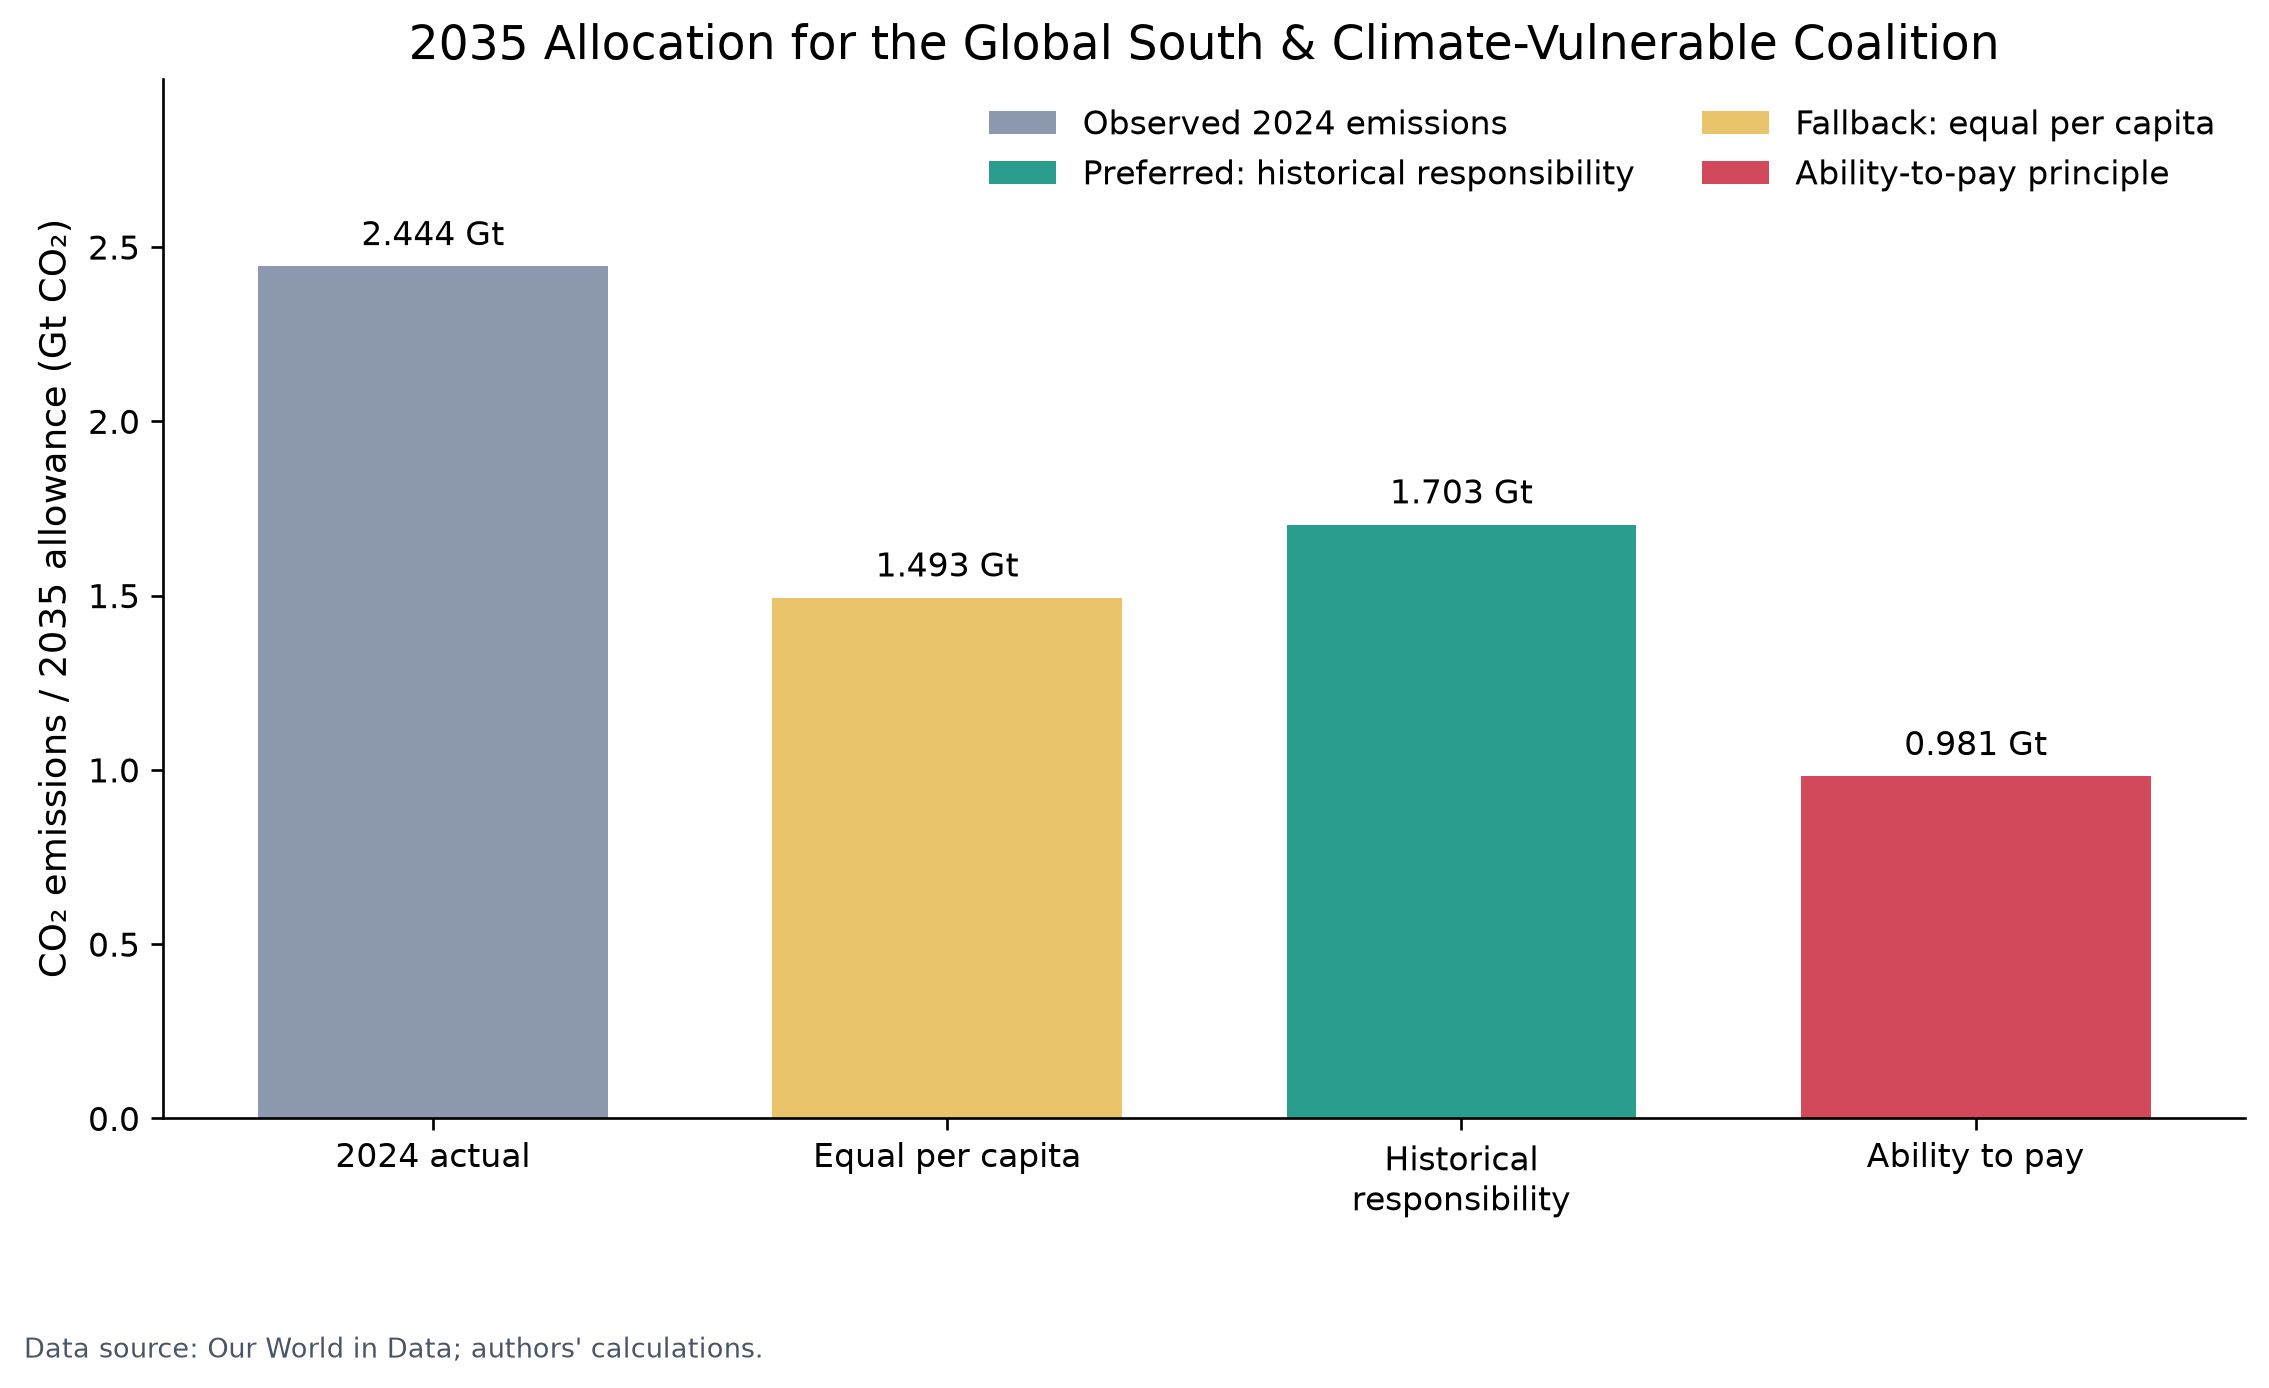
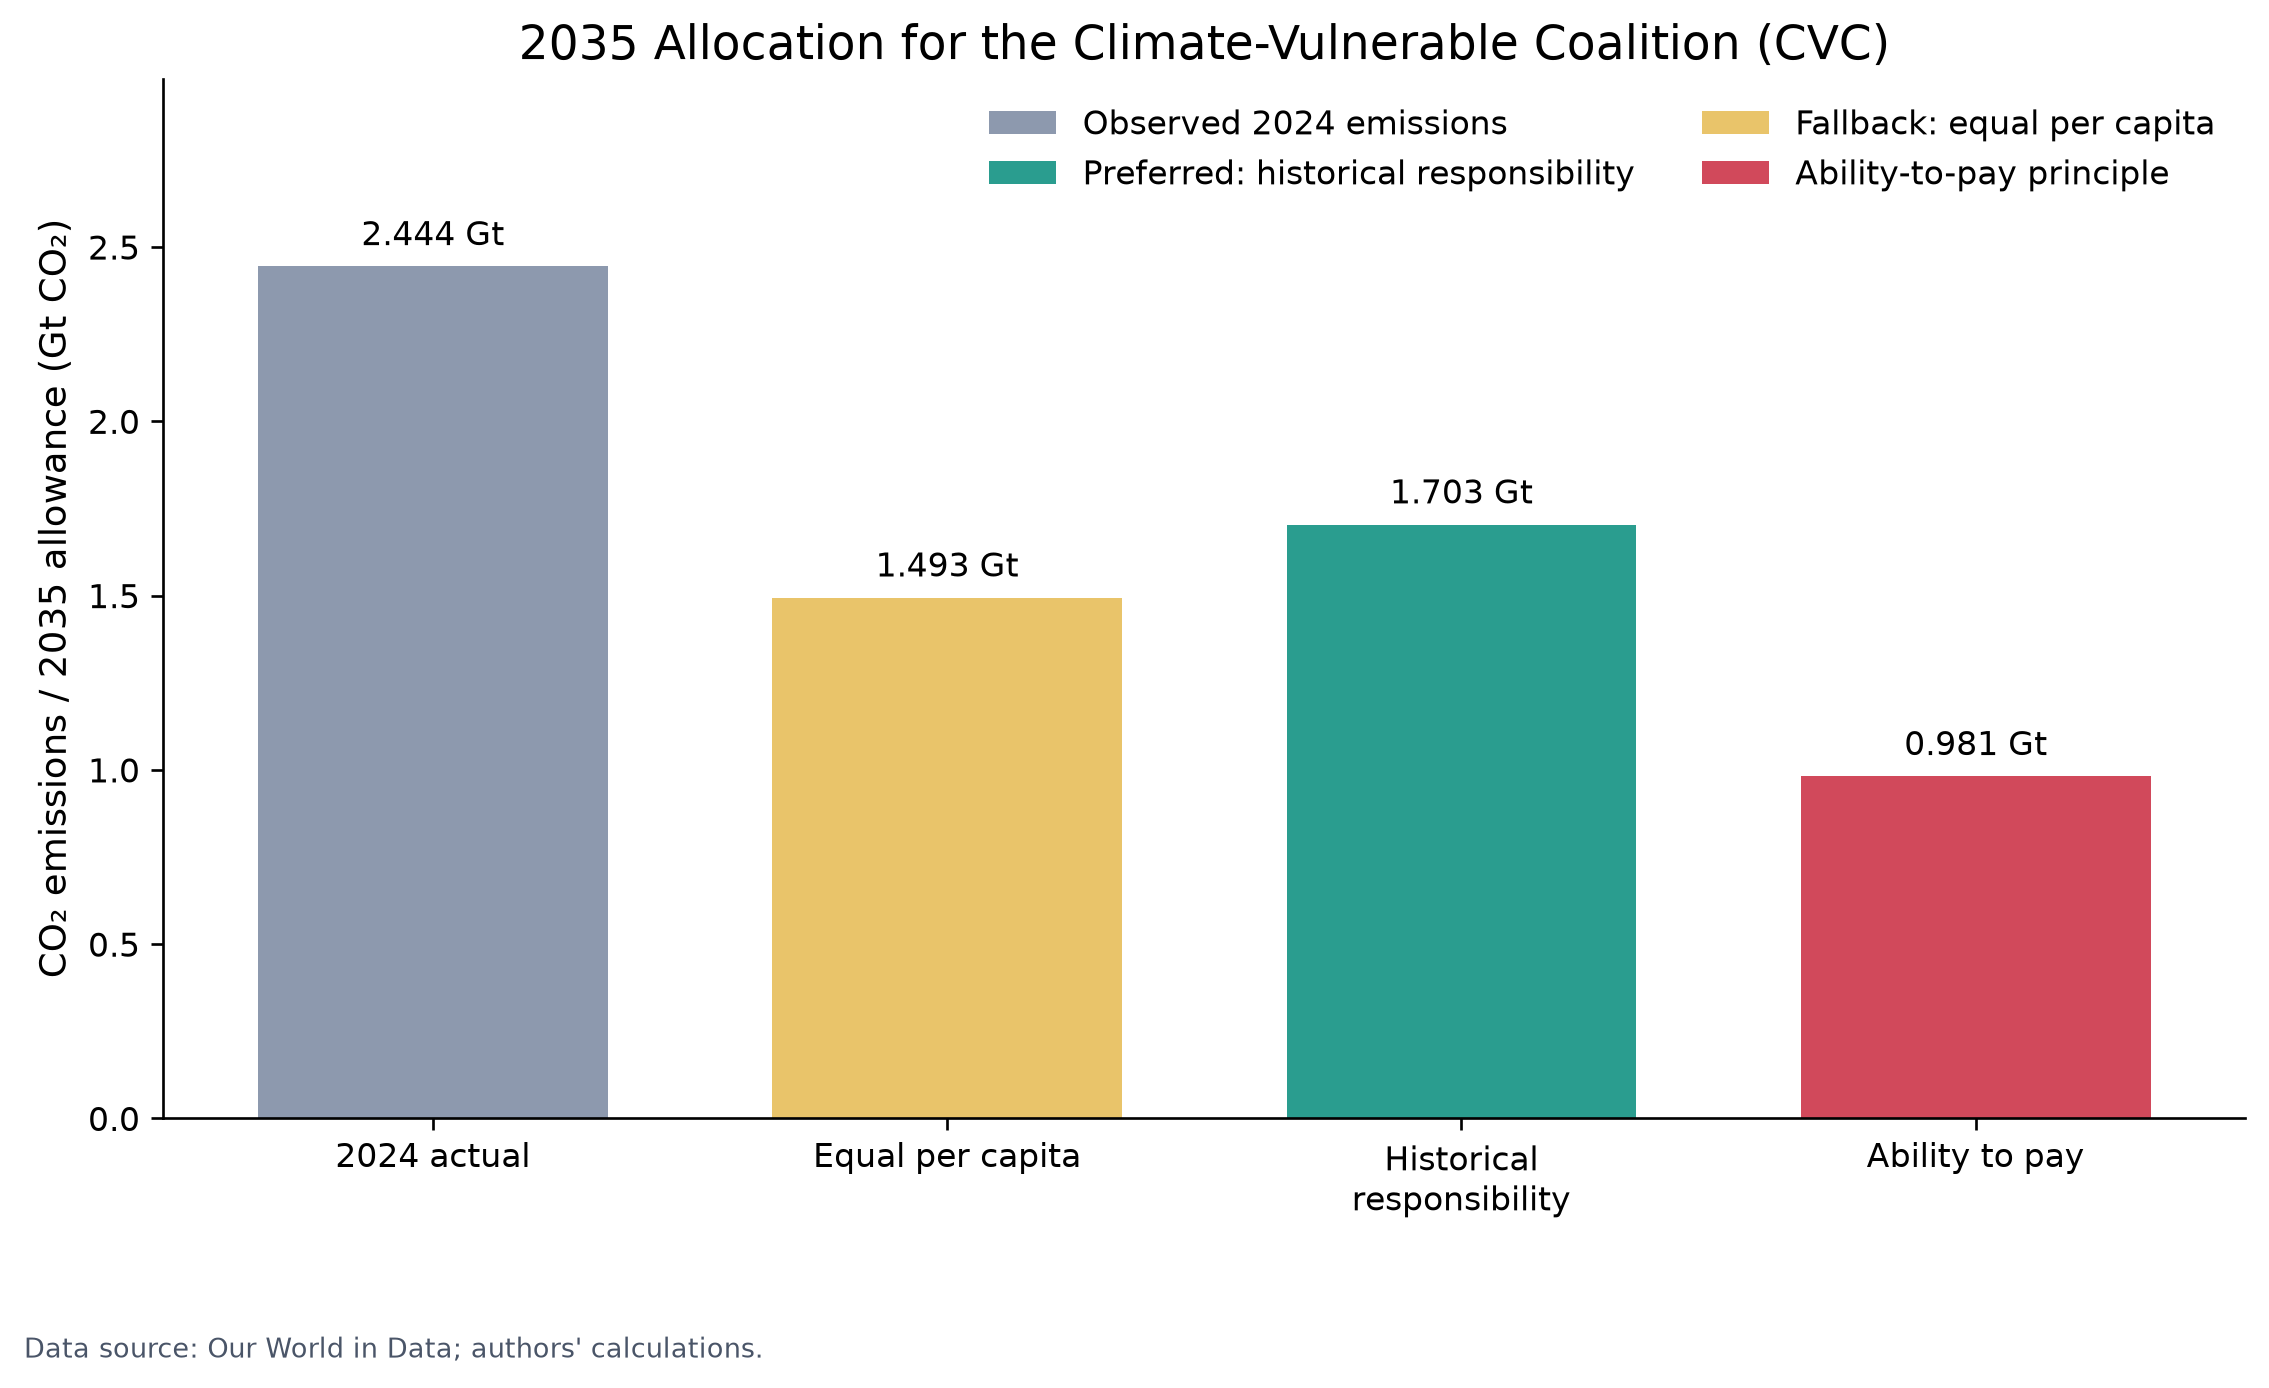
fix naming and update markdown

Changed region(s): [[0.1851, 0.0, 0.8638, 0.062]]

diff --git a/README.md b/README.md
@@ -1,0 +1,2 @@
+Calculation 2035 emission allocation based on our own 20 country list.
+Calculate the adaption finance need based on Climate Finance Initiative Bottom Up(Updated 2025 Nov) and UNEP adaption finance gap.
